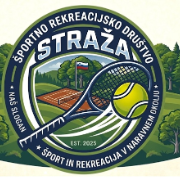
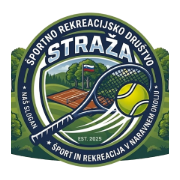
Centriran logotip, nove ikone strani

diff --git a/index.html b/index.html
@@ -4,7 +4,9 @@
 <meta charset="utf-8">
 <meta name="viewport" content="width=device-width, initial-scale=1">
 <meta name="description" content="Športno-rekreacijsko društvo Straža (ŠRD Straža) – Tenis center Obrul v Straži pri Oplotnici, blizu Slovenske Bistrice in Slovenskih Konjic. Dve tenis igrišči z reflektorji, spletna rezervacija, vsak dan 7–24, 10 €/uro.">
-<link rel="icon" href="favicon.ico" sizes="48x48">
+<link rel="icon" href="/favicon.ico" sizes="48x48">
+<link rel="icon" type="image/png" sizes="48x48" href="/favicon-48.png">
+<link rel="icon" type="image/png" sizes="96x96" href="/favicon-96.png">
 <link rel="icon" type="image/png" sizes="192x192" href="favicon-192.png">
 <link rel="apple-touch-icon" href="apple-touch-icon.png">
 <link rel="canonical" href="https://tenis-center-obrul.si/">
@@ -57,7 +59,7 @@
   .hero .stats{display:flex;gap:34px;margin-top:40px}
   .hero .stats b{display:block;font-family:"Bricolage Grotesque";font-size:30px;color:#fff}
   .hero .stats span{font-size:13px;color:#a9b8ab}
-  .court-art{width:118%;max-width:680px;justify-self:end;margin-right:-4%;filter:drop-shadow(0 18px 30px rgba(0,0,0,.35))}
+  .court-art{width:100%;max-width:620px;justify-self:center;margin:0 auto;filter:drop-shadow(0 18px 30px rgba(0,0,0,.35))}
   @media(max-width:860px){.hero .wrap{grid-template-columns:1fr}.court-art{width:100%;max-width:520px;margin:0 auto;justify-self:center;order:-1}}
 
   section{padding:72px 0}
